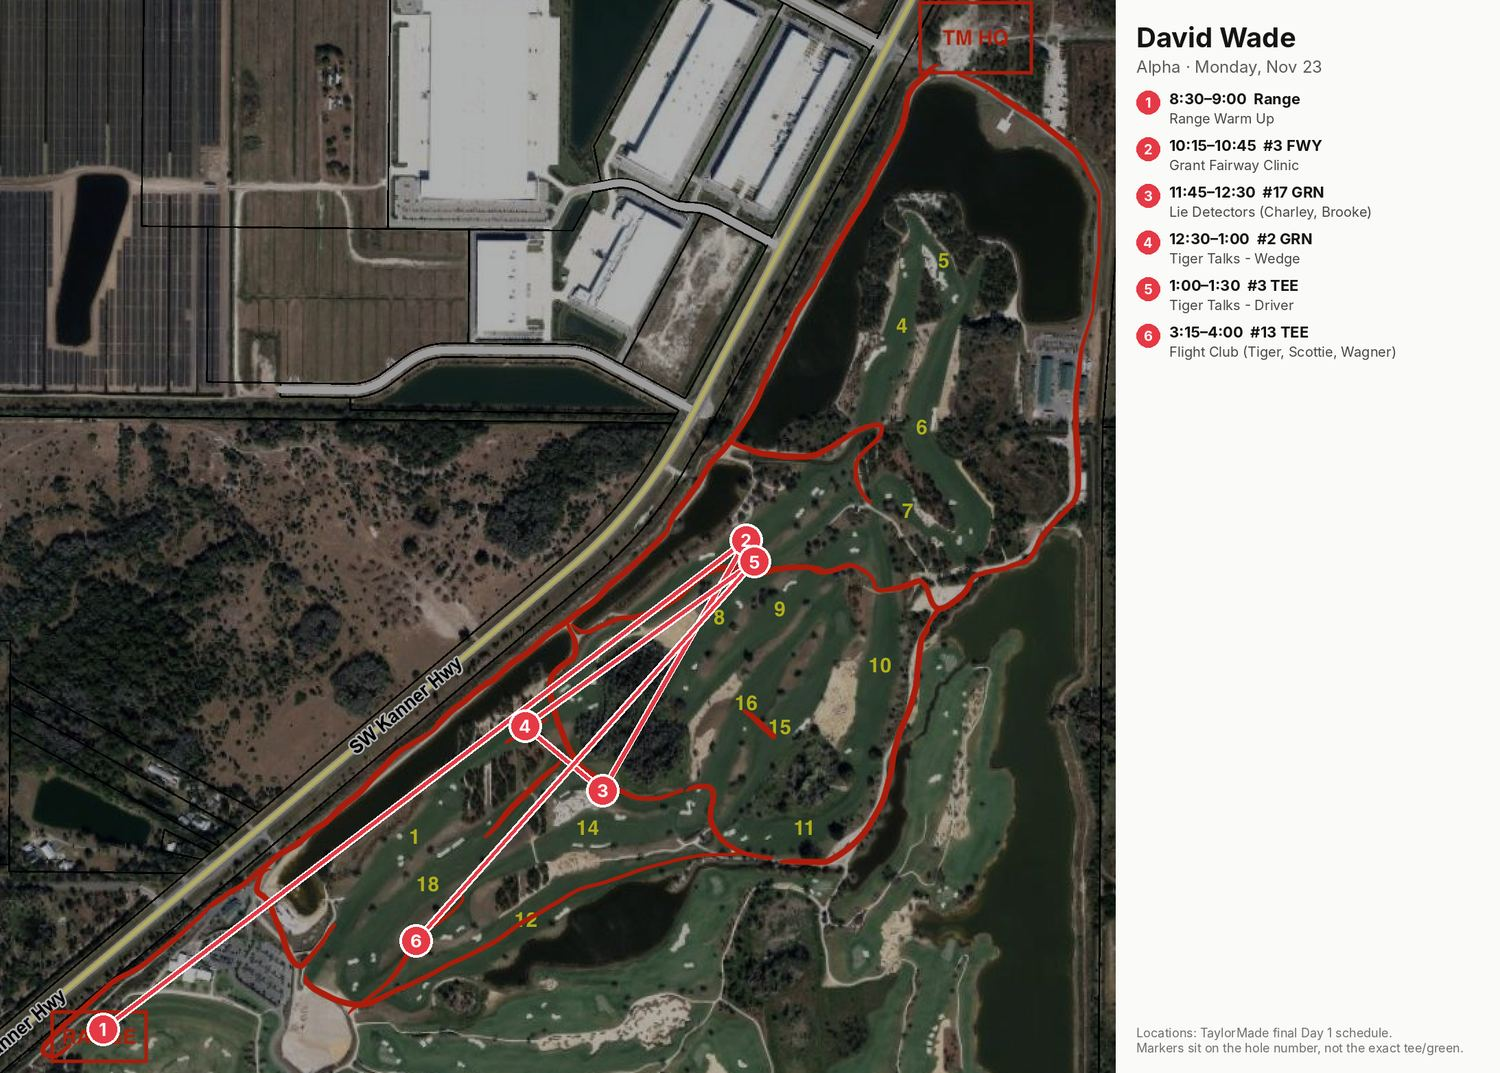
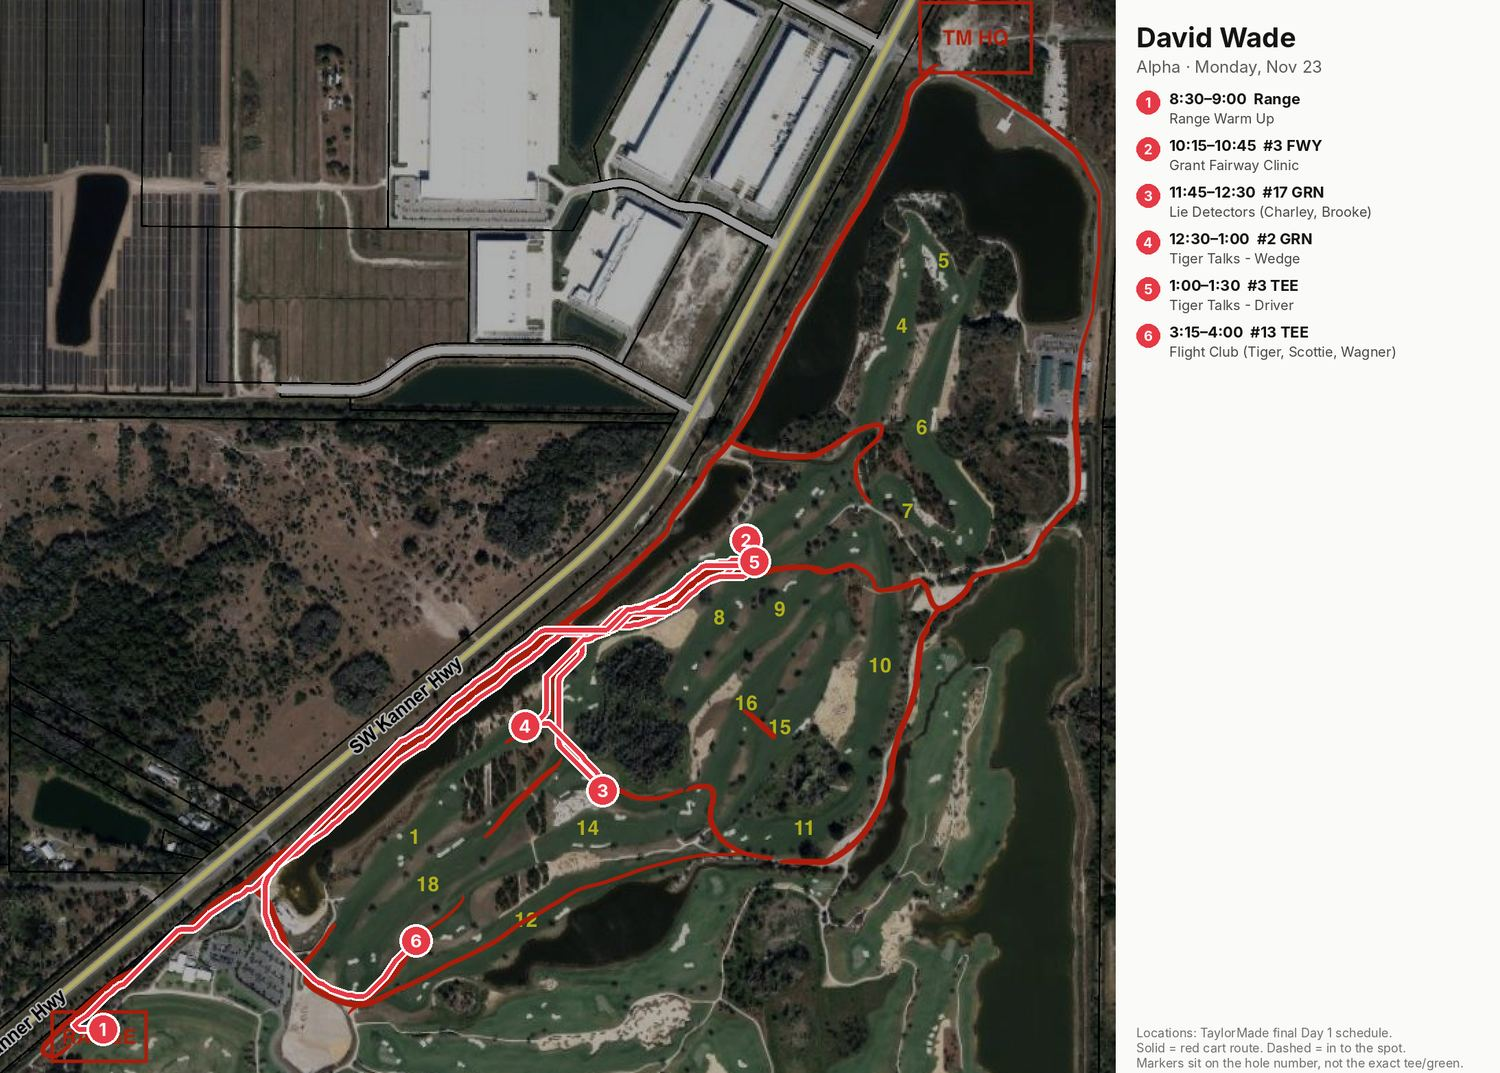
Talent TX/frequency (GR01) under every set in My Day + Timeline details; field channels per mixer; maps follow the red cart routes
Claude-Session: https://claude.ai/code/session_01Cu9tCEs3nu2uXZXxK9FtRu

diff --git a/index.html b/index.html
@@ -339,7 +339,7 @@ button.ml{appearance:none}
  .tal-log td:last-child{border-right:0}
 }
 @media (max-width:640px){nav{overflow-x:auto;scrollbar-width:none;-webkit-overflow-scrolling:touch}nav::-webkit-scrollbar{display:none}nav button{flex:1 1 auto!important;padding-left:3px!important;padding-right:3px!important;letter-spacing:0!important;font-size:.74rem!important}}
-.md-pick{display:flex;gap:10px;align-items:center;margin:6px 0 12px}.md-pick label{font-weight:600}.md-pick select{font:inherit;font-size:1rem;padding:8px 10px;border-radius:8px;border:1px solid var(--line,#ccc);background:var(--bg,#fff);color:inherit;min-width:220px;max-width:100%}.md-tb{width:100%;border-collapse:collapse;margin-bottom:8px}.md-tb td{padding:8px 6px;border-bottom:1px solid var(--line,#e3e3e3);vertical-align:top}.md-t{white-space:nowrap;font-weight:700;font-variant-numeric:tabular-nums;width:1%;padding-right:12px!important}.md-w{font-weight:600}.md-loc{margin-top:2px;font-weight:700;color:var(--accent,#1f6b45)}.md-tal{color:var(--muted,#666);font-size:.9em;margin-top:2px}.md-k{font-size:.7rem;text-transform:uppercase;letter-spacing:.05em;color:var(--muted,#888);margin-top:3px}.md-lunch td{background:rgba(200,170,80,.12)}.md-map{width:100%;height:auto;border-radius:8px;border:1px solid var(--line,#ddd)}
+.rfl{display:flex;flex-direction:column;gap:2px;margin-top:3px;font-size:.88em}.rfl span{color:var(--ink,#222)}.rfl i{font-style:normal;color:var(--muted,#666);font-variant-numeric:tabular-nums}.md-rf{font-size:.9rem;background:rgba(31,107,69,.08);border-radius:8px;padding:8px 10px}.md-pick{display:flex;gap:10px;align-items:center;margin:6px 0 12px}.md-pick label{font-weight:600}.md-pick select{font:inherit;font-size:1rem;padding:8px 10px;border-radius:8px;border:1px solid var(--line,#ccc);background:var(--bg,#fff);color:inherit;min-width:220px;max-width:100%}.md-tb{width:100%;border-collapse:collapse;margin-bottom:8px}.md-tb td{padding:8px 6px;border-bottom:1px solid var(--line,#e3e3e3);vertical-align:top}.md-t{white-space:nowrap;font-weight:700;font-variant-numeric:tabular-nums;width:1%;padding-right:12px!important}.md-w{font-weight:600}.md-loc{margin-top:2px;font-weight:700;color:var(--accent,#1f6b45)}.md-tal{color:var(--muted,#666);font-size:.9em;margin-top:2px}.md-k{font-size:.7rem;text-transform:uppercase;letter-spacing:.05em;color:var(--muted,#888);margin-top:3px}.md-lunch td{background:rgba(200,170,80,.12)}.md-map{width:100%;height:auto;border-radius:8px;border:1px solid var(--line,#ddd)}
 </style>
 <div id="app" class="wrap"></div>
 <script>
@@ -993,7 +993,7 @@ function findRow(id){return (M.rows||[]).find(function(r){return r.id===id;});}
 function sheet(r,i){
   var b=r.bars[i],el=root.querySelector('#mt-sheet');if(!b)return;
   var who=M.who(b.w||[]).join(', ');var cov=M.byBar.get(b);
-  el.innerHTML='<div class="sh-in"><button class="sh-x" data-close aria-label="Close">×</button><span class="pill c-'+b.c+'">'+esc(b.hs?'Comms · headsets':CAT[b.c]||(b.c==='a2'?'A2':b.c==='comms'?'Comms':b.c==='unc'?'Not covered':b.c))+'</span><h3>'+esc(b.n)+'</h3><p class="sh-t tab-num">'+fmt(b.s)+'–'+fmt(b.e)+' · '+(b.e-b.s)+' min</p>'+(who?'<p><b>Talent</b><br>'+esc(who)+'</p>':'')+(r.hsRow?'<p><b>Headsets live</b><br>'+esc(r.full)+'</p>':cov?'<p><b>Sound</b><br>'+esc(cov.join(', '))+'</p>':(st.view==='mix'&&r.full&&!r.unc?'<p><b>Crew</b><br>'+esc(r.full)+'</p>':''))+'</div>';
+  el.innerHTML='<div class="sh-in"><button class="sh-x" data-close aria-label="Close">×</button><span class="pill c-'+b.c+'">'+esc(b.hs?'Comms · headsets':CAT[b.c]||(b.c==='a2'?'A2':b.c==='comms'?'Comms':b.c==='unc'?'Not covered':b.c))+'</span><h3>'+esc(b.n)+'</h3><p class="sh-t tab-num">'+fmt(b.s)+'–'+fmt(b.e)+' · '+(b.e-b.s)+' min</p>'+(who?'<p><b>Talent · TX · MHz</b><br>'+(rfHtml(b.w)||esc(who))+'</p>':'')+(r.hsRow?'<p><b>Headsets live</b><br>'+esc(r.full)+'</p>':cov?'<p><b>Sound</b><br>'+esc(cov.join(', '))+'</p>':(st.view==='mix'&&r.full&&!r.unc?'<p><b>Crew</b><br>'+esc(r.full)+'</p>':''))+'</div>';
   el.hidden=false;setCur(b.s);
 }
 var pinch=null;
@@ -1180,6 +1180,15 @@ function talent(){
  return h;
 }
 
+/* Talent TX / frequency lookup for My Day + Timeline (data: MIC_RF, Wisycom GR01) */
+var RFKEY={Tiger:'Tiger Woods',Rory:'Rory McIlroy',Scottie:'Scottie Scheffler',Tommy:'Tommy Fleetwood',Collin:'Collin Morikawa',Charley:'Charley Hull',Brooke:'Brooke Henderson',Jacob:'Jacob Bridgeman',Michael:'Michael Thorbjornsen',Grant:'Grant Horvat',Ryan:'Ryan Ruffels',Johnson:'Johnson Wagner',Brian:'Brian Bazzel',Keith:'Keith Sbarbaro',Adrian:'Adrian Rietveld',Matt:'Matt Simone',James:'James Holley',Jackson:'Jackson Bragg',Cory:'Cory Johnson',Bovee:'Matt Bovee',Haeran:'Haeran Ryu',Jae:'Jae Lee'};
+var UNITRF={dave:['Alpha','CH29–30','658.725 / 659.150'],joel:['Bravo','CH27–28','657.625 / 658.525'],brandon:['Charlie','CH25–26','657.050 / 657.250'],michal:['Delta','CH9–10','635.500 / 635.875'],andy:['Fore Play','CH3–4','632.750 / 633.175'],joshl:['YouTube','CH7–8','634.175 / 635.275'],rick:['Social','CH5–6','633.525 / 633.725']};
+function rfHtml(w){
+ var L=(w||[]).map(function(k){var n=RFKEY[k];if(!n)return null;var a=(typeof MIC_RF!=='undefined'&&MIC_RF[n])||{};return {n:n,p:a.p||{},b:a.b||{}};}).filter(Boolean);
+ if(!L.length)return '';
+ return '<div class="rfl">'+L.map(function(x){return '<span><b>'+esc(x.n)+'</b> '+(x.p.f?'<i>GR01 '+esc(x.p.tx)+'</i> '+esc(x.p.f):'<i>freq TBD</i>')+(x.b.f?' <i>· BU '+esc(x.b.tx)+'</i> '+esc(x.b.f):'')+'</span>';}).join('')+'</div>';
+}
+
 /* My Day: pick your name, see both days with locations + Monday map */
 var MAPS={dave:1,joel:1,brandon:1,michal:1,andy:1,joshl:1,rick:1};
 var me='';try{me=localStorage.getItem('tm26me')||'';}catch(e){}
@@ -1195,13 +1204,14 @@ function myday(){
  var day=function(lbl,L){
   var rows=L.filter(function(x){return !/^Fallback/.test(x.n);}).sort(function(a,b){return a.s-b.s||a.e-b.e;}).map(function(x){
    var parts=x.n.split(' @ ');var what=parts[0],where=parts[1]||'';
-   return '<tr class="md-'+x.c+'"><td class="md-t">'+f(x.s)+'–'+f(x.e)+'</td><td><div class="md-w">'+esc(what)+'</div>'+(where?'<div class="md-loc">📍 '+esc(where)+'</div>':'')+(x.w&&x.w.length&&!x.fixed?'<div class="md-tal">'+esc(who(x.w).join(', '))+'</div>':'')+'<div class="md-k">'+(K[x.c]||x.c)+'</div></td></tr>';
+   return '<tr class="md-'+x.c+'"><td class="md-t">'+f(x.s)+'–'+f(x.e)+'</td><td><div class="md-w">'+esc(what)+'</div>'+(where?'<div class="md-loc">📍 '+esc(where)+'</div>':'')+(x.w&&x.w.length&&!x.fixed?(rfHtml(x.w)||'<div class="md-tal">'+esc(who(x.w).join(', '))+'</div>'):'')+'<div class="md-k">'+(K[x.c]||x.c)+'</div></td></tr>';
   }).join('');
   return '<h2>'+lbl+'</h2>'+(rows?'<table class="md-tb">'+rows+'</table>':'<p class="note">Nothing scheduled.</p>');
  };
- h+='<p class="note"><b>'+esc(c.name)+'</b> · '+esc(c.role)+'. Monday call 6:15 AM at the production tent; Tuesday 6:00–6:15 AM. Monday locations are from TaylorMade’s final Day 1 schedule. Link straight to this page: <b>schedule.theorysound.com/#me='+c.id+'</b></p>';
+ var U=UNITRF[c.id];if(U)h+='<p class="md-rf">Your field channels ('+U[0]+'): <b>GR01 '+U[1]+'</b> · '+U[2]+' MHz. Talent TX are listed under each set (Wisycom GR01, same both days).</p>';
+ h+='<p class="note"><b>'+esc(c.name)+'</b> · '+esc(c.role)+'. Monday call 6:15 AM at the production tent; Tuesday 6:00–6:15 AM. Locations from TaylorMade\u2019s schedule (Monday final; Tuesday from their Day 2 tab). Link straight to this page: <b>schedule.theorysound.com/#me='+c.id+'</b></p>';
  h+=day('Monday, Nov 23',M1.lanes[c.id]||[]);
- if(MAPS[c.id])h+='<h2>Monday route</h2><a href="maps/'+c.id+'-mon.jpg" target="_blank" rel="noopener"><img class="md-map" src="maps/'+c.id+'-mon.jpg" alt="Monday route map for '+esc(c.name)+'"></a><p class="note">Markers sit on the hole number; tap to open full size.</p>';
+ if(MAPS[c.id])h+='<h2>Monday route</h2><a href="maps/'+c.id+'-mon.jpg" target="_blank" rel="noopener"><img class="md-map" src="maps/'+c.id+'-mon.jpg" alt="Monday route map for '+esc(c.name)+'"></a><p class="note">Solid line follows the red cart routes; dashed is the last bit in to the spot. Markers sit on the hole number; tap to open full size.</p>';
  h+=day('Tuesday, Nov 24',M2.lanes[c.id]||[]);
  return h;
 }
